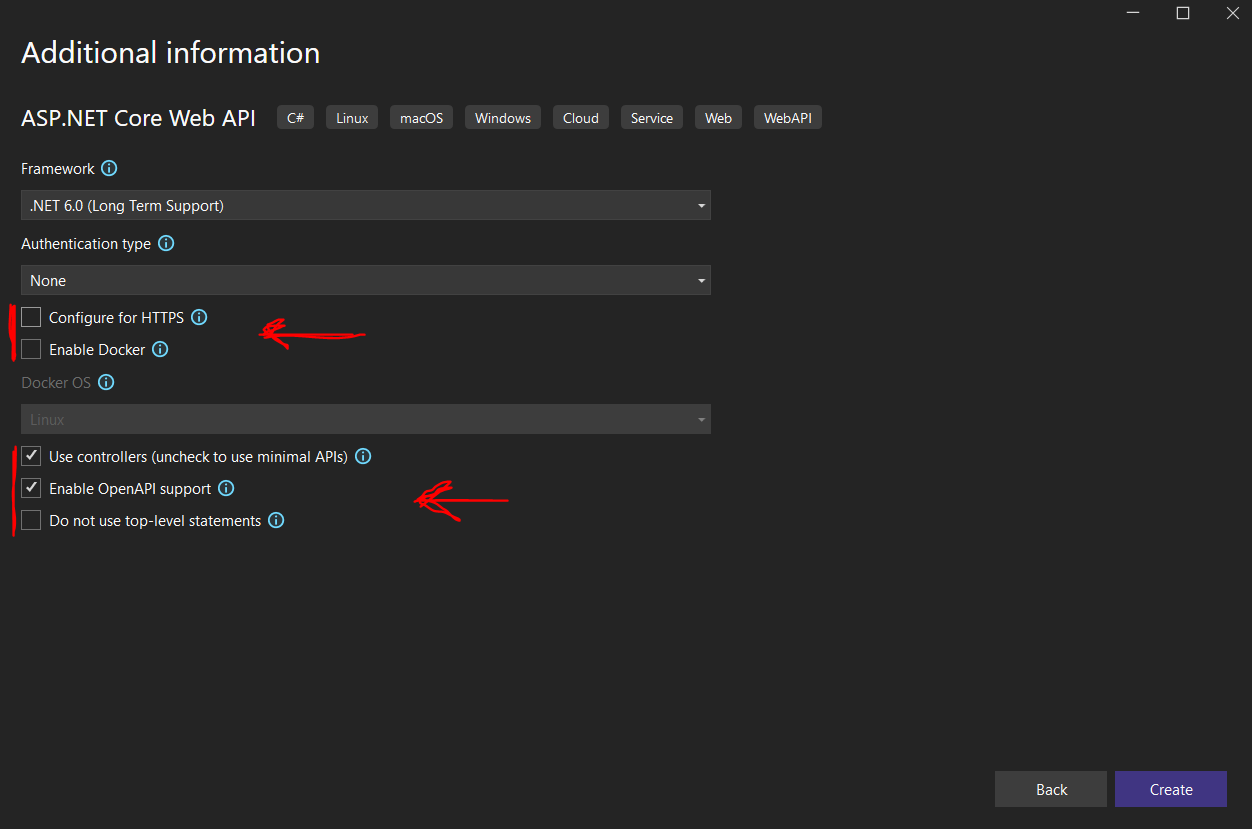
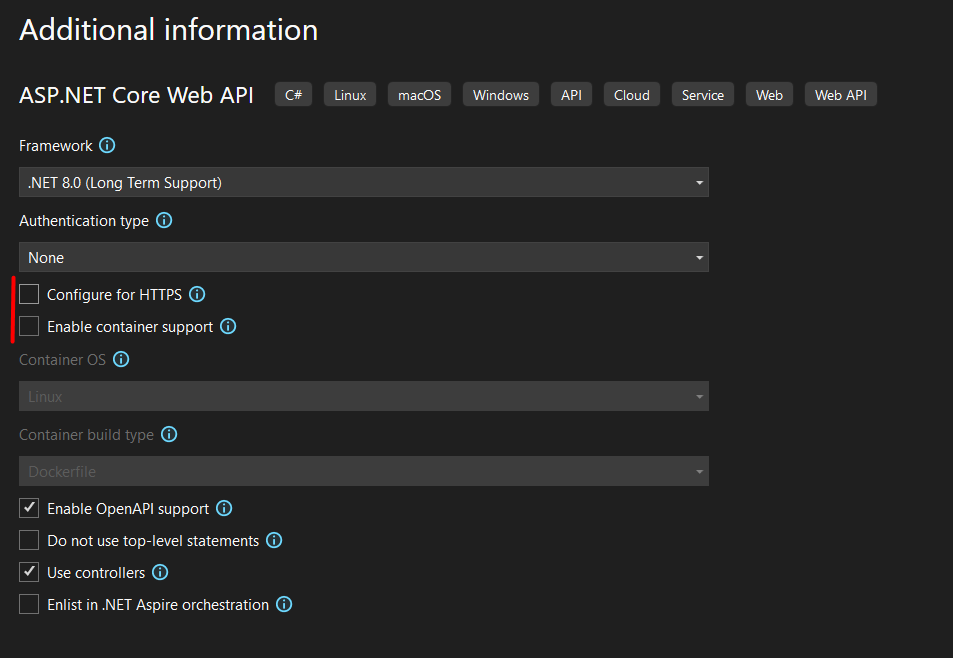
Lab06 edit

diff --git a/docs/labs/06.Lab 6 - Web API Design And Architecture/Creating a Web API.md b/docs/labs/06.Lab 6 - Web API Design And Architecture/Creating a Web API.md
@@ -17,22 +17,27 @@ To create a new API project:
 
 ![web-api-new-project](./web-api-new-project.PNG)
 
-2. Choose *ASP.NET Core Web API* as the project type
+2. Choose *ASP.NET Core Web API* as the project type and then click *Next*
 
-![web-api-new-project-type](./web-api-new-project-type.PNG)
+![web-api-new-project-type](./web-api-new-project-type.png)
 
-3. Enter the name of the project and where it will be saved and then click *Next*
+3. - Enter the name of the project as "Api"
+- Choose location where it will be saved - take location of your repository/directory from HW1
+- Enter the name of the solution - just copy/paste your repository name from HW1
+- Uncheck *Place solution and project in the same directory* option
+- Click *Next*
 
-![web-api-configure](./web-api-configure.PNG)
+![web-api-configure](./web-api-configure.png)
 
 4. **IMPORTANT:**
-   - Choose *.NET 6.0* or *.NET 7.0* for the *framework* 
+   - Choose *.NET 8.0* for the *framework*. If you dont have it you can choose *.NET 6.0* or *.NET 7.0* 
+   - Authentication leave as *None*
    - Uncheck *Configure for HTTPS*
    - Uncheck *Enable Docker*
-   - Check *Use controllers (uncheck to use minimal APIs)*
+   - Check *Use controllers*
    - Check *Enable OpenAPI support*
 
-![web-api-new-additional-info](./web-api-new-additional-info.PNG)
+![web-api-new-additional-info](./web-api-new-additional-info.png)
 
 **After this, you get an ASP.NET Web API project with one sample controller that can be deleted.**
 
